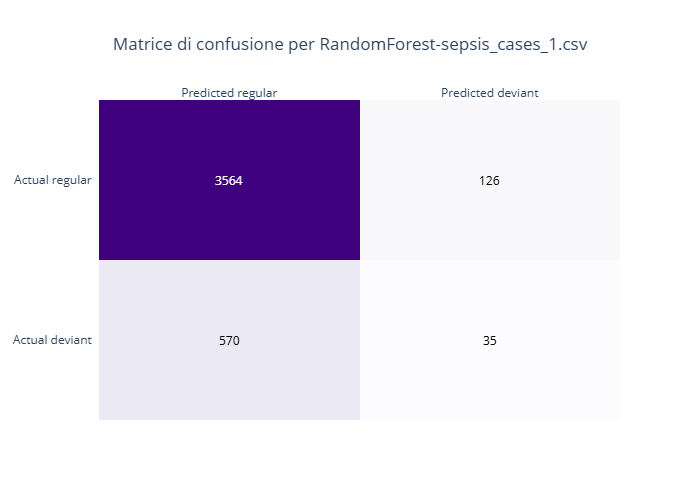
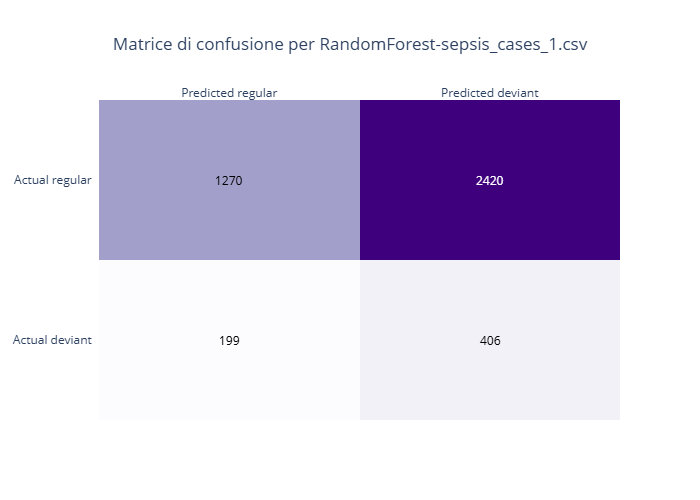
fine

Changed region(s): [[0.12, 0.18, 0.9, 0.54], [0.3, 0.66, 0.36, 0.69], [0.69, 0.66, 0.72, 0.69]]

diff --git a/main.py b/main.py
@@ -124,84 +124,84 @@ def main(datasetName, fileConfig, rfWeights, xgbWeights, max):
     # raccuracy = rClassRep['accuracy']
     # info['r'] = [rtp, rtn, rfp, rfn, rpd, rpr, rpmacro, rpweigh, rrd, rrr, rrmacro, rrweigh, rf1d, rf1r, rf1macro, rf1weigh, raccuracy]
 
-    classifiers = [randomForest, xgb]
-    for classifier in classifiers:
-        path = f"statistiche/bpic11{classifier.name()}CounterfactualsWithMax_{max}"
-        if os.path.exists(path):
-            shutil.rmtree(path)
-        caseIDList = testSet.caseIDDominio()
-        numPredDev = 0
-        numTruePos = 0
-        numFalsePos = 0
-        numCFOfTrue = 0
-        numCFOfFalse = 0
-        distancesForTrue = []
-        i = 0
-        counterfactual = Counterfactual(trainSet, classifier)
-        for caseID in caseIDList:
-            i += 1
-            print(i, caseID)
-            subtraces = testSet.selectCaseID(caseID)
-            listForDataFrame = []
-            allRegular = True
-            someUnable = False
-            for _, labeledFeatureVector in subtraces:
-                isTruePos = False
-                fv = labeledFeatureVector.featureVector()
-                label = labeledFeatureVector.label()
-                pred = classifier.decode(classifier.predict(testSet.toPandasDF([fv])))[0]
-                if pred == 'regular':
-                    cfDataFrame = dataFrameForPrefix(caseID, pred, fv, testSet.columnsName(), 'Original')
-                else:
-                    allRegular = False
-                    numPredDev += 1
-                    if label == 'deviant':
-                        numTruePos += 1
-                        isTruePos = True
-                    else:
-                        numFalsePos += 1
-                    cfDataFrame, distance = counterfactual.generateCounterfactual(
-                        [labeledFeatureVector.featureVector()], 
-                        caseID, 
-                        trainSet.columnsName(),
-                        minPermittedRange(labeledFeatureVector.featureVector()), 
-                        maxPermittedRange(labeledFeatureVector.featureVector(), max),  
-                        False,
-                        'regular')
-                    if cfDataFrame is False:
-                        someUnable = True
-                        cfDataFrame = pd.concat([dataFrameForPrefix(caseID, pred, fv, testSet.columnsName(), 'Original'), 
-                                                dataFrameForPrefix(caseID, 'Unable', [np.nan]*len(testSet.columnsName()), testSet.columnsName(), 'Counterfactual')], 
-                                                ignore_index=True)
-                    else:
-                        if isTruePos:
-                            numCFOfTrue += 1
-                            distancesForTrue.append(distance)
-                        else:
-                            numCFOfFalse += 1
-                cfDataFrame['Actual'] = label
-                allColumns = list(cfDataFrame.columns)
-                allColumns.remove('CaseID')
-                allColumns.remove('PrefixLength')
-                allColumns.remove('Actual')
-                allColumns.remove('Predicted')
-                allColumns.remove('Type')
-                allColumns.remove('Label')
-                newOrder = ['CaseID', 'PrefixLength'] + allColumns + ['Actual', 'Predicted', 'Type']
-                cfDataFrame = cfDataFrame[newOrder]
-                listForDataFrame.append(cfDataFrame)
-            finalDataFrame = pd.concat(listForDataFrame, ignore_index=True)
+    # classifiers = [randomForest, xgb]
+    # for classifier in classifiers:
+    #     path = f"statistiche/bpic11{classifier.name()}CounterfactualsWithMax_{max}"
+    #     if os.path.exists(path):
+    #         shutil.rmtree(path)
+    #     caseIDList = testSet.caseIDDominio()
+    #     numPredDev = 0
+    #     numTruePos = 0
+    #     numFalsePos = 0
+    #     numCFOfTrue = 0
+    #     numCFOfFalse = 0
+    #     distancesForTrue = []
+    #     i = 0
+    #     counterfactual = Counterfactual(trainSet, classifier)
+    #     for caseID in caseIDList:
+    #         i += 1
+    #         print(i, caseID)
+    #         subtraces = testSet.selectCaseID(caseID)
+    #         listForDataFrame = []
+    #         allRegular = True
+    #         someUnable = False
+    #         for _, labeledFeatureVector in subtraces:
+    #             isTruePos = False
+    #             fv = labeledFeatureVector.featureVector()
+    #             label = labeledFeatureVector.label()
+    #             pred = classifier.decode(classifier.predict(testSet.toPandasDF([fv])))[0]
+    #             if pred == 'regular':
+    #                 cfDataFrame = dataFrameForPrefix(caseID, pred, fv, testSet.columnsName(), 'Original')
+    #             else:
+    #                 allRegular = False
+    #                 numPredDev += 1
+    #                 if label == 'deviant':
+    #                     numTruePos += 1
+    #                     isTruePos = True
+    #                 else:
+    #                     numFalsePos += 1
+    #                 cfDataFrame, distance = counterfactual.generateCounterfactual(
+    #                     [labeledFeatureVector.featureVector()], 
+    #                     caseID, 
+    #                     trainSet.columnsName(),
+    #                     minPermittedRange(labeledFeatureVector.featureVector()), 
+    #                     maxPermittedRange(labeledFeatureVector.featureVector(), max),  
+    #                     False,
+    #                     'regular')
+    #                 if cfDataFrame is False:
+    #                     someUnable = True
+    #                     cfDataFrame = pd.concat([dataFrameForPrefix(caseID, pred, fv, testSet.columnsName(), 'Original'), 
+    #                                             dataFrameForPrefix(caseID, 'Unable', [np.nan]*len(testSet.columnsName()), testSet.columnsName(), 'Counterfactual')], 
+    #                                             ignore_index=True)
+    #                 else:
+    #                     if isTruePos:
+    #                         numCFOfTrue += 1
+    #                         distancesForTrue.append(distance)
+    #                     else:
+    #                         numCFOfFalse += 1
+    #             cfDataFrame['Actual'] = label
+    #             allColumns = list(cfDataFrame.columns)
+    #             allColumns.remove('CaseID')
+    #             allColumns.remove('PrefixLength')
+    #             allColumns.remove('Actual')
+    #             allColumns.remove('Predicted')
+    #             allColumns.remove('Type')
+    #             allColumns.remove('Label')
+    #             newOrder = ['CaseID', 'PrefixLength'] + allColumns + ['Actual', 'Predicted', 'Type']
+    #             cfDataFrame = cfDataFrame[newOrder]
+    #             listForDataFrame.append(cfDataFrame)
+    #         finalDataFrame = pd.concat(listForDataFrame, ignore_index=True)
 
-            pathOut = path + f"/{'#' if someUnable else ''}{'_' if allRegular else ''}{caseID}.xlsx"
-            outputDir = os.path.dirname(pathOut)
-            if outputDir and not os.path.exists(outputDir):
-                os.makedirs(outputDir)
-            styler = finalDataFrame.style
-            styler = styler.apply(alternate_rows_style, axis=1)
-            styler = styler.map(highlight_deviant, subset=['Actual', 'Predicted'])
-            styler = styler.map(highlight_unable, subset=['Predicted'])
-            styler.to_excel(pathOut, engine='openpyxl', index = False)
-        info[classifier.name()] = [numPredDev, numTruePos, numFalsePos, numCFOfTrue, numCFOfFalse, mean(distancesForTrue)]
+    #         pathOut = path + f"/{'#' if someUnable else ''}{'_' if allRegular else ''}{caseID}.xlsx"
+    #         outputDir = os.path.dirname(pathOut)
+    #         if outputDir and not os.path.exists(outputDir):
+    #             os.makedirs(outputDir)
+    #         styler = finalDataFrame.style
+    #         styler = styler.apply(alternate_rows_style, axis=1)
+    #         styler = styler.map(highlight_deviant, subset=['Actual', 'Predicted'])
+    #         styler = styler.map(highlight_unable, subset=['Predicted'])
+    #         styler.to_excel(pathOut, engine='openpyxl', index = False)
+    #     info[classifier.name()] = [numPredDev, numTruePos, numFalsePos, numCFOfTrue, numCFOfFalse, mean(distancesForTrue)]
     return info
 
 if __name__ == "__main__":
@@ -213,13 +213,13 @@ if __name__ == "__main__":
                "Numero di cf generati sui false positive", "Distanza media nei true positive"]
     dfList = []
     for max in range(1, 6):
-        info = main("BPIC11_f1.csv", "BPIC11fileConfig.json", {'deviant': 7, 'regular': 1}, {'deviant': 2, 'regular': 1}, max)
+        info = main("sepsis_cases_1.csv", "SEPSISfileConfig.json", {'deviant': 9, 'regular': 1}, {'deviant': 9, 'regular': 1}, max)
         df = pd.DataFrame.from_dict(info, orient='index', columns=columns)
         df.reset_index(inplace=True)
         df.rename(columns={'index': 'Classificatore'}, inplace=True)
         df['Valore massimo per i counterfactual'] = max
         dfList.append(df)
-    outPath = "statistiche/bpic11summaryReport.xlsx"
+    outPath = "statistiche/sepsissummaryReport.xlsx"
     finalDF = pd.concat(dfList, ignore_index=True)
     columnOrder = ['Valore massimo per i counterfactual', 'Classificatore'] + columns
     finalDF = finalDF[columnOrder]
@@ -231,10 +231,10 @@ if __name__ == "__main__":
     # dfList = []
     # for i in range(1, 11):
     #     for j in range(1, 11):
-    #         info = main("bpic2012_O_ACCEPTED-COMPLETE.csv", "BPIC2012fileConfig.json", {'deviant': i, 'regular': j}, {'deviant': i, 'regular': j}, 1)
+    #         info = main("sepsis_cases_1.csv", "SEPSISfileConfig.json", {'deviant': i, 'regular': j}, {'deviant': i, 'regular': j}, 1)
     #         row1 = ['Random Forest', i, j] + info['r']
     #         row2 = ['XGBoost', i, j] + info['x']
     #         dfList.append(pd.DataFrame([row1], columns=columns))
     #         dfList.append(pd.DataFrame([row2], columns=columns))
     # finalDF = pd.concat(dfList, ignore_index=True)
-    # finalDF.to_excel("statistiche/bpic2012Metriche.xlsx", index=False)
+    # finalDF.to_excel("statistiche/sepsisMetriche.xlsx", index=False)
